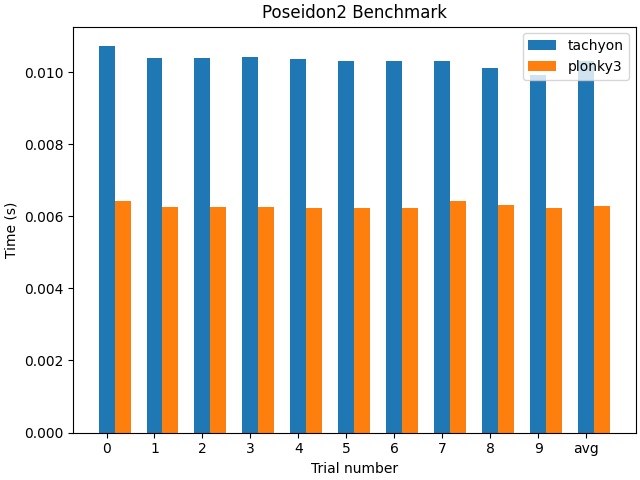
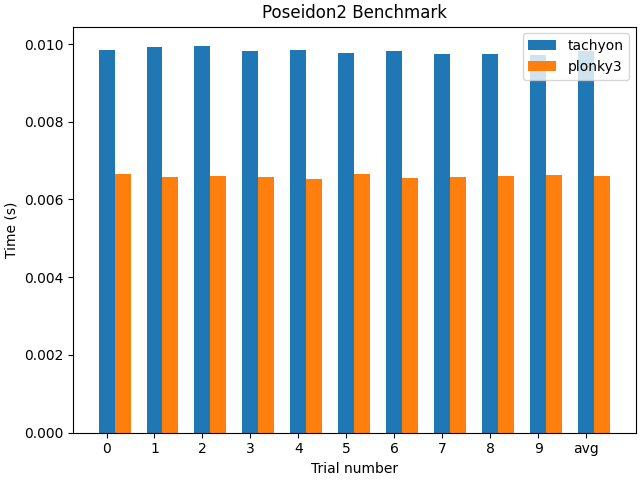
docs(benchmark): update `Poseidon2` benchmark

diff --git a/benchmark/poseidon2/README.md b/benchmark/poseidon2/README.md
@@ -27,17 +27,17 @@ bazel run -c opt --//:has_openmp --//:has_rtti --//:has_matplotlib //benchmark/p
 
 | Trial Number | Tachyon  | Horizen      | Plonky3  |
 | :----------- | -------- | ------------ | -------- |
-| 0            | 0.06417  | **0.049875** | 0.082714 |
-| 1            | 0.061176 | **0.049937** | 0.082634 |
-| 2            | 0.060154 | **0.04997**  | 0.082722 |
-| 3            | 0.060016 | **0.049925** | 0.082925 |
-| 4            | 0.060068 | **0.049902** | 0.082724 |
-| 5            | 0.060079 | **0.052291** | 0.082722 |
-| 6            | 0.060046 | **0.051501** | 0.08271  |
-| 7            | 0.06008  | **0.049871** | 0.082694 |
-| 8            | 0.06005  | **0.049768** | 0.082677 |
-| 9            | 0.060036 | **0.049995** | 0.083914 |
-| avg          | 0.060587 | **0.050303** | 0.082843 |
+| 0            | 0.064726 | **0.050047** | 0.082464 |
+| 1            | 0.061723 | **0.049997** | 0.082598 |
+| 2            | 0.060917 | **0.050063** | 0.08257  |
+| 3            | 0.06086  | **0.049952** | 0.082493 |
+| 4            | 0.060655 | **0.050173** | 0.082409 |
+| 5            | 0.060768 | **0.050683** | 0.08268  |
+| 6            | 0.060843 | **0.050278** | 0.082675 |
+| 7            | 0.060696 | **0.050062** | 0.082579 |
+| 8            | 0.060688 | **0.05004**  | 0.082592 |
+| 9            | 0.060677 | **0.050128** | 0.083144 |
+| avg          | 0.061255 | **0.050142** | 0.08262  |
 
 ![image](/benchmark/poseidon2/poseidon2_benchmark_bn254_ubuntu_i9.png)
 
@@ -45,17 +45,17 @@ bazel run -c opt --//:has_openmp --//:has_rtti --//:has_matplotlib //benchmark/p
 
 | Trial Number | Tachyon  | Horizen      | Plonky3  |
 | :----------- | -------- | ------------ | -------- |
-| 0            | 0.073586 | **0.055299** | 0.082223 |
-| 1            | 0.073077 | **0.055153** | 0.082353 |
-| 2            | 0.072825 | **0.055762** | 0.082113 |
-| 3            | 0.072752 | **0.054881** | 0.082102 |
-| 4            | 0.072827 | **0.055061** | 0.082143 |
-| 5            | 0.072827 | **0.054988** | 0.082222 |
-| 6            | 0.072862 | **0.05494**  | 0.082222 |
-| 7            | 0.072745 | **0.055217** | 0.082189 |
-| 8            | 0.0729   | **0.054908** | 0.082151 |
-| 9            | 0.072922 | **0.055135** | 0.082084 |
-| avg          | 0.072932 | **0.055134** | 0.08218  |
+| 0            | 0.072979 | **0.055031** | 0.081624 |
+| 1            | 0.072478 | **0.054731** | 0.081525 |
+| 2            | 0.071973 | **0.055768** | 0.081633 |
+| 3            | 0.071969 | **0.054835** | 0.081638 |
+| 4            | 0.072009 | **0.054884** | 0.081545 |
+| 5            | 0.071933 | **0.055**    | 0.081572 |
+| 6            | 0.07201  | **0.054946** | 0.081521 |
+| 7            | 0.072033 | **0.054883** | 0.081539 |
+| 8            | 0.071967 | **0.054989** | 0.081626 |
+| 9            | 0.071934 | **0.054942** | 0.081556 |
+| avg          | 0.072128 | **0.055**    | 0.081577 |
 
 ![image](/benchmark/poseidon2/poseidon2_benchmark_bn254_mac_m3.png)
 
@@ -73,17 +73,17 @@ bazel run -c opt --//:has_openmp --//:has_rtti --//:has_matplotlib //benchmark/p
 
 | Trial Number | Tachyon      | Horizen  |
 | :----------- | ------------ | -------- |
-| 0            | **0.012201** | 0.036443 |
-| 1            | **0.012022** | 0.035775 |
-| 2            | **0.011884** | 0.034381 |
-| 3            | **0.011955** | 0.034372 |
-| 4            | **0.011902** | 0.034503 |
-| 5            | **0.011901** | 0.034408 |
-| 6            | **0.011873** | 0.034462 |
-| 7            | **0.011807** | 0.034393 |
-| 8            | **0.011835** | 0.034304 |
-| 9            | **0.011794** | 0.034446 |
-| avg          | **0.011917** | 0.034748 |
+| 0            | **0.011549** | 0.034751 |
+| 1            | **0.011439** | 0.034627 |
+| 2            | **0.011475** | 0.034581 |
+| 3            | **0.011543** | 0.035442 |
+| 4            | **0.011455** | 0.03632  |
+| 5            | **0.011372** | 0.034545 |
+| 6            | **0.011381** | 0.034538 |
+| 7            | **0.011142** | 0.03459  |
+| 8            | **0.010845** | 0.034522 |
+| 9            | **0.010819** | 0.034589 |
+| avg          | **0.011302** | 0.03485  |
 
 ![image](/benchmark/poseidon2/poseidon2_benchmark_baby_bear_horizen_ubuntu_i9.png)
 
@@ -91,17 +91,17 @@ bazel run -c opt --//:has_openmp --//:has_rtti --//:has_matplotlib //benchmark/p
 
 | Trial Number | Tachyon      | Horizen  |
 | :----------- | ------------ | -------- |
-| 0            | **0.011549** | 0.013957 |
-| 1            | **0.01148**  | 0.014097 |
-| 2            | **0.011512** | 0.01411  |
-| 3            | **0.011383** | 0.013999 |
-| 4            | **0.011461** | 0.014056 |
-| 5            | **0.011371** | 0.014166 |
-| 6            | **0.011386** | 0.014089 |
-| 7            | **0.011587** | 0.014151 |
-| 8            | **0.01141**  | 0.014135 |
-| 9            | **0.011608** | 0.01411  |
-| avg          | **0.011474** | 0.014087 |
+| 0            | **0.010979** | 0.013892 |
+| 1            | **0.010574** | 0.013858 |
+| 2            | **0.010544** | 0.014098 |
+| 3            | **0.010642** | 0.013843 |
+| 4            | **0.010517** | 0.013842 |
+| 5            | **0.010599** | 0.013938 |
+| 6            | **0.010519** | 0.013913 |
+| 7            | **0.010474** | 0.013889 |
+| 8            | **0.010572** | 0.013892 |
+| 9            | **0.010533** | 0.013979 |
+| avg          | **0.010595** | 0.013914 |
 
 ![image](/benchmark/poseidon2/poseidon2_benchmark_baby_bear_horizen_mac_m3.png)
 
@@ -115,17 +115,17 @@ bazel run -c opt --//:has_openmp --//:has_rtti --//:has_matplotlib //benchmark/p
 
 | Trial Number | Tachyon  | Plonky3      |
 | :----------- | -------- | ------------ |
-| 0            | 0.010727 | **0.006418** |
-| 1            | 0.01039  | **0.006261** |
-| 2            | 0.010394 | **0.006259** |
-| 3            | 0.010416 | **0.006262** |
-| 4            | 0.010356 | **0.006226** |
-| 5            | 0.010302 | **0.006227** |
-| 6            | 0.010302 | **0.006235** |
-| 7            | 0.010301 | **0.006424** |
-| 8            | 0.010116 | **0.006304** |
-| 9            | 0.009905 | **0.006233** |
-| avg          | 0.01032  | **0.006284** |
+| 0            | 0.009848 | **0.006655** |
+| 1            | 0.00992  | **0.006582** |
+| 2            | 0.009955 | **0.006616** |
+| 3            | 0.009811 | **0.006572** |
+| 4            | 0.009851 | **0.006537** |
+| 5            | 0.009776 | **0.006645** |
+| 6            | 0.009822 | **0.006548** |
+| 7            | 0.009738 | **0.006586** |
+| 8            | 0.009757 | **0.006594** |
+| 9            | 0.009717 | **0.006619** |
+| avg          | 0.009819 | **0.006595** |
 
 ![image](/benchmark/poseidon2/poseidon2_benchmark_baby_bear_plonky3_ubuntu_i9.png)
 
@@ -133,16 +133,16 @@ bazel run -c opt --//:has_openmp --//:has_rtti --//:has_matplotlib //benchmark/p
 
 | Trial Number | Tachyon  | Plonky3      |
 | :----------- | -------- | ------------ |
-| 0            | 0.009962 | **0.007355** |
-| 1            | 0.009939 | **0.007373** |
-| 2            | 0.009851 | **0.007431** |
-| 3            | 0.009943 | **0.007453** |
-| 4            | 0.009853 | **0.007399** |
-| 5            | 0.009826 | **0.007459** |
-| 6            | 0.009825 | **0.007385** |
-| 7            | 0.009884 | **0.007389** |
-| 8            | 0.009819 | **0.007403** |
-| 9            | 0.009937 | **0.007353** |
-| avg          | 0.009883 | **0.0074**   |
+| 0            | 0.009201 | **0.00732**  |
+| 1            | 0.008927 | **0.007346** |
+| 2            | 0.008922 | **0.007309** |
+| 3            | 0.008735 | **0.007324** |
+| 4            | 0.008765 | **0.0076**   |
+| 5            | 0.008715 | **0.007335** |
+| 6            | 0.008704 | **0.007439** |
+| 7            | 0.008664 | **0.007369** |
+| 8            | 0.008679 | **0.007347** |
+| 9            | 0.008657 | **0.007353** |
+| avg          | 0.008796 | **0.007374** |
 
 ![image](/benchmark/poseidon2/poseidon2_benchmark_baby_bear_plonky3_mac_m3.png)\*\*\*\*
